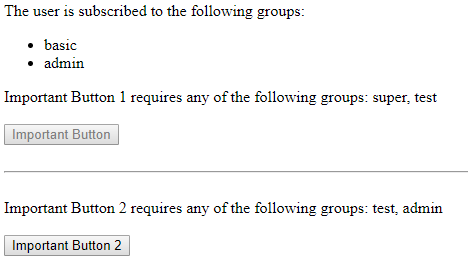
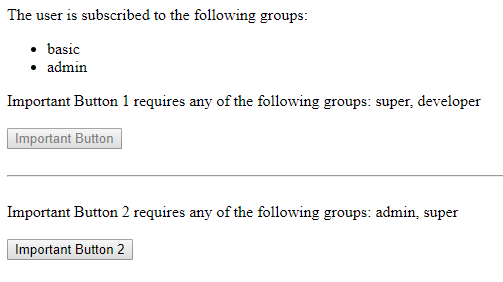
making example easier to follow

diff --git a/example.html b/example.html
@@ -18,15 +18,15 @@
     </div>
 
     <div>
-      <div>Important Button 1 requires any of the following groups: {{ important_button_1_access_requirements }}</div>
+      <div>Important Button 1 requires any of the following groups: super, developer</div>
       <br>
-      <div><button type="button" access-requirements="{{ important_button_1_access_requirements }}">Important Button</button></div>
+      <div><button type="button" access-requirements="super, developer">Important Button</button></div>
     </div>
     <br><hr><br>
     <div>
-      <div>Important Button 2 requires any of the following groups: {{ important_button_2_access_requirements }}</div>
+      <div>Important Button 2 requires any of the following groups: admin, super</div>
       <br>
-      <div><button type="button" access-requirements="{{ important_button_2_access_requirements }}">Important Button 2</button></div>
+      <div><button type="button" access-requirements="admin, super">Important Button 2</button></div>
     </div>
 
   </body>
